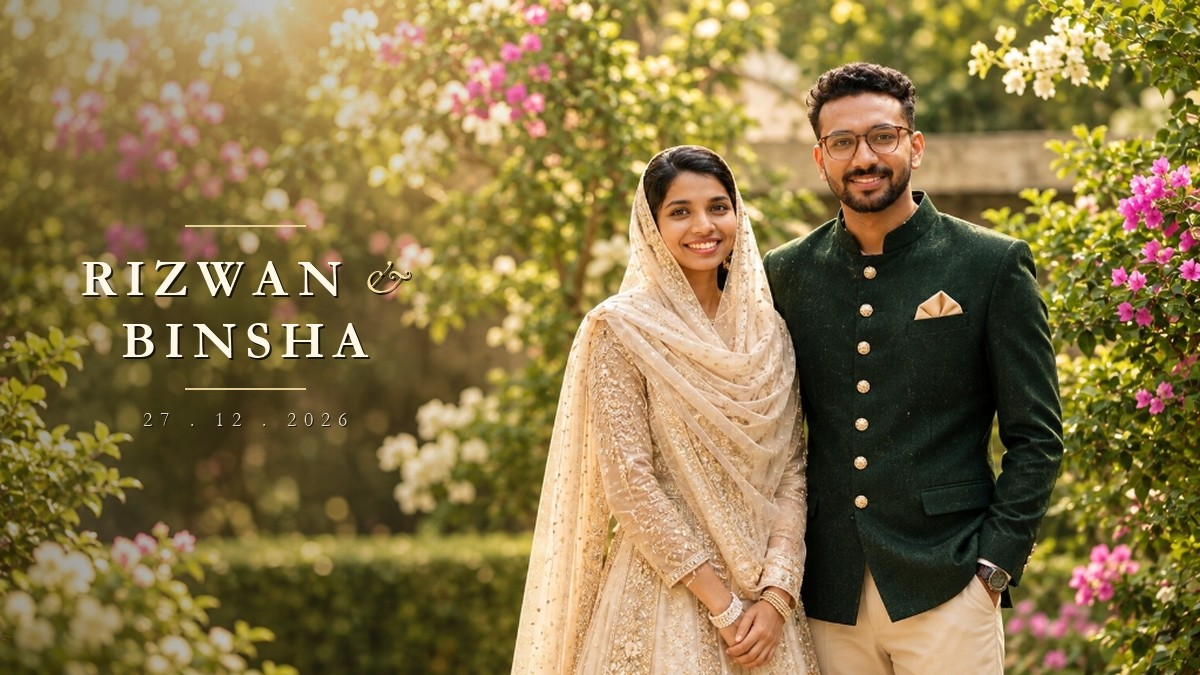
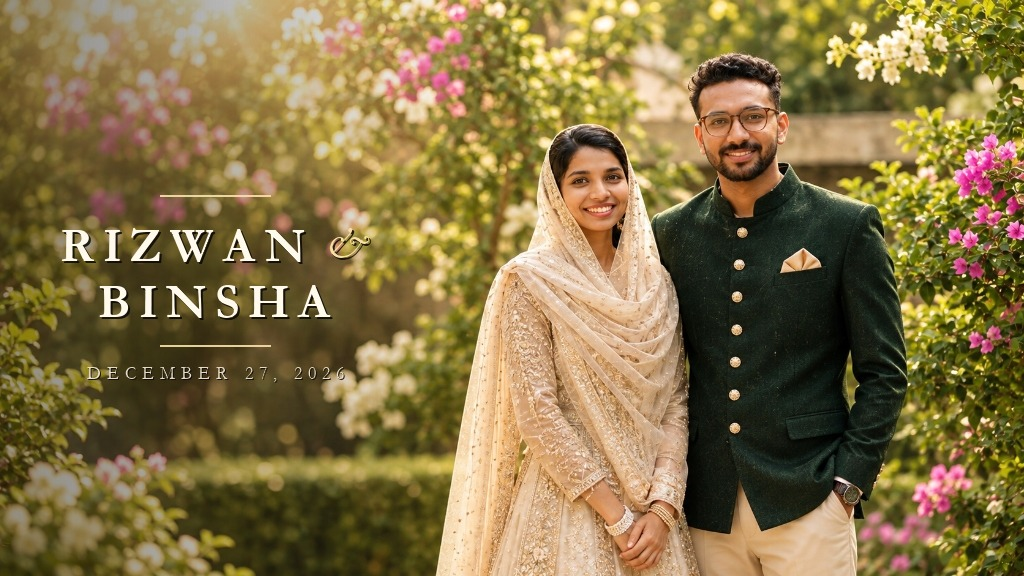
match exact 1024x576 share image and Open Graph structure of reference site

Changed region(s): [[0.0625, 0.375, 0.375, 0.6562], [0.1562, 0.3125, 0.25, 0.3438]]

diff --git a/index.html b/index.html
@@ -9,29 +9,28 @@
     <link rel="shortcut icon" href="/favicon.ico?v=2" />
     <meta name="viewport" content="width=device-width, initial-scale=1.0" />
     <title>Rizwan &amp; Binsha — Wedding Celebration</title>
-    <meta name="title" content="Rizwan &amp; Binsha — Wedding Celebration" />
-    <meta name="description" content="Together with their families, Rizwan Mohamed &amp; Binsha Azeez warmly invite you to celebrate their wedding on Sunday, 27 December 2026 in Kollam, Kerala." />
+    <meta name="description" content="Join us in celebrating the wedding of Mohammed Rizwan &amp; Binsha N on 27 December 2026. A cinematic editorial wedding invitation." />
     <meta name="theme-color" content="#05140e" />
+    <link rel="canonical" href="https://riswan-wedding.vercel.app" />
 
     <!-- Open Graph / WhatsApp / Facebook Preview -->
-    <meta property="og:type" content="website" />
-    <meta property="og:url" content="https://riswan-wedding.vercel.app/" />
-    <meta property="og:site_name" content="Rizwan &amp; Binsha Wedding" />
     <meta property="og:title" content="Rizwan &amp; Binsha — Wedding Celebration" />
-    <meta property="og:description" content="Together with their families, Rizwan Mohamed &amp; Binsha Azeez warmly invite you to celebrate their wedding on Sunday, 27 December 2026 in Kollam, Kerala." />
-    <meta property="og:image" content="https://riswan-wedding.vercel.app/images/og-preview.jpg" />
-    <meta property="og:image:secure_url" content="https://riswan-wedding.vercel.app/images/og-preview.jpg" />
+    <meta property="og:description" content="Join us in celebrating the wedding of Mohammed Rizwan &amp; Binsha N on 27 December 2026. A cinematic editorial wedding invitation." />
+    <meta property="og:url" content="https://riswan-wedding.vercel.app" />
+    <meta property="og:site_name" content="Rizwan &amp; Binsha — Wedding Celebration" />
+    <meta property="og:locale" content="en_IN" />
+    <meta property="og:image" content="https://riswan-wedding.vercel.app/assets/images/wedding-share.jpg" />
     <meta property="og:image:type" content="image/jpeg" />
-    <meta property="og:image:width" content="1200" />
-    <meta property="og:image:height" content="675" />
-    <meta property="og:image:alt" content="Rizwan &amp; Binsha Wedding Celebration" />
+    <meta property="og:image:width" content="1024" />
+    <meta property="og:image:height" content="576" />
+    <meta property="og:image:alt" content="Rizwan &amp; Binsha Wedding Invitation — 27 December 2026" />
+    <meta property="og:type" content="website" />
 
     <!-- Twitter Preview -->
     <meta name="twitter:card" content="summary_large_image" />
-    <meta name="twitter:url" content="https://riswan-wedding.vercel.app/" />
     <meta name="twitter:title" content="Rizwan &amp; Binsha — Wedding Celebration" />
-    <meta name="twitter:description" content="Together with their families, Rizwan Mohamed &amp; Binsha Azeez warmly invite you to celebrate their wedding on Sunday, 27 December 2026 in Kollam, Kerala." />
-    <meta name="twitter:image" content="https://riswan-wedding.vercel.app/images/og-preview.jpg" />
+    <meta name="twitter:description" content="Join us in celebrating the wedding of Mohammed Rizwan &amp; Binsha N on 27 December 2026. A cinematic editorial wedding invitation." />
+    <meta name="twitter:image" content="https://riswan-wedding.vercel.app/assets/images/wedding-share.jpg" />
     <link rel="preconnect" href="https://fonts.googleapis.com" />
     <link rel="preconnect" href="https://fonts.gstatic.com" crossorigin />
     <link
